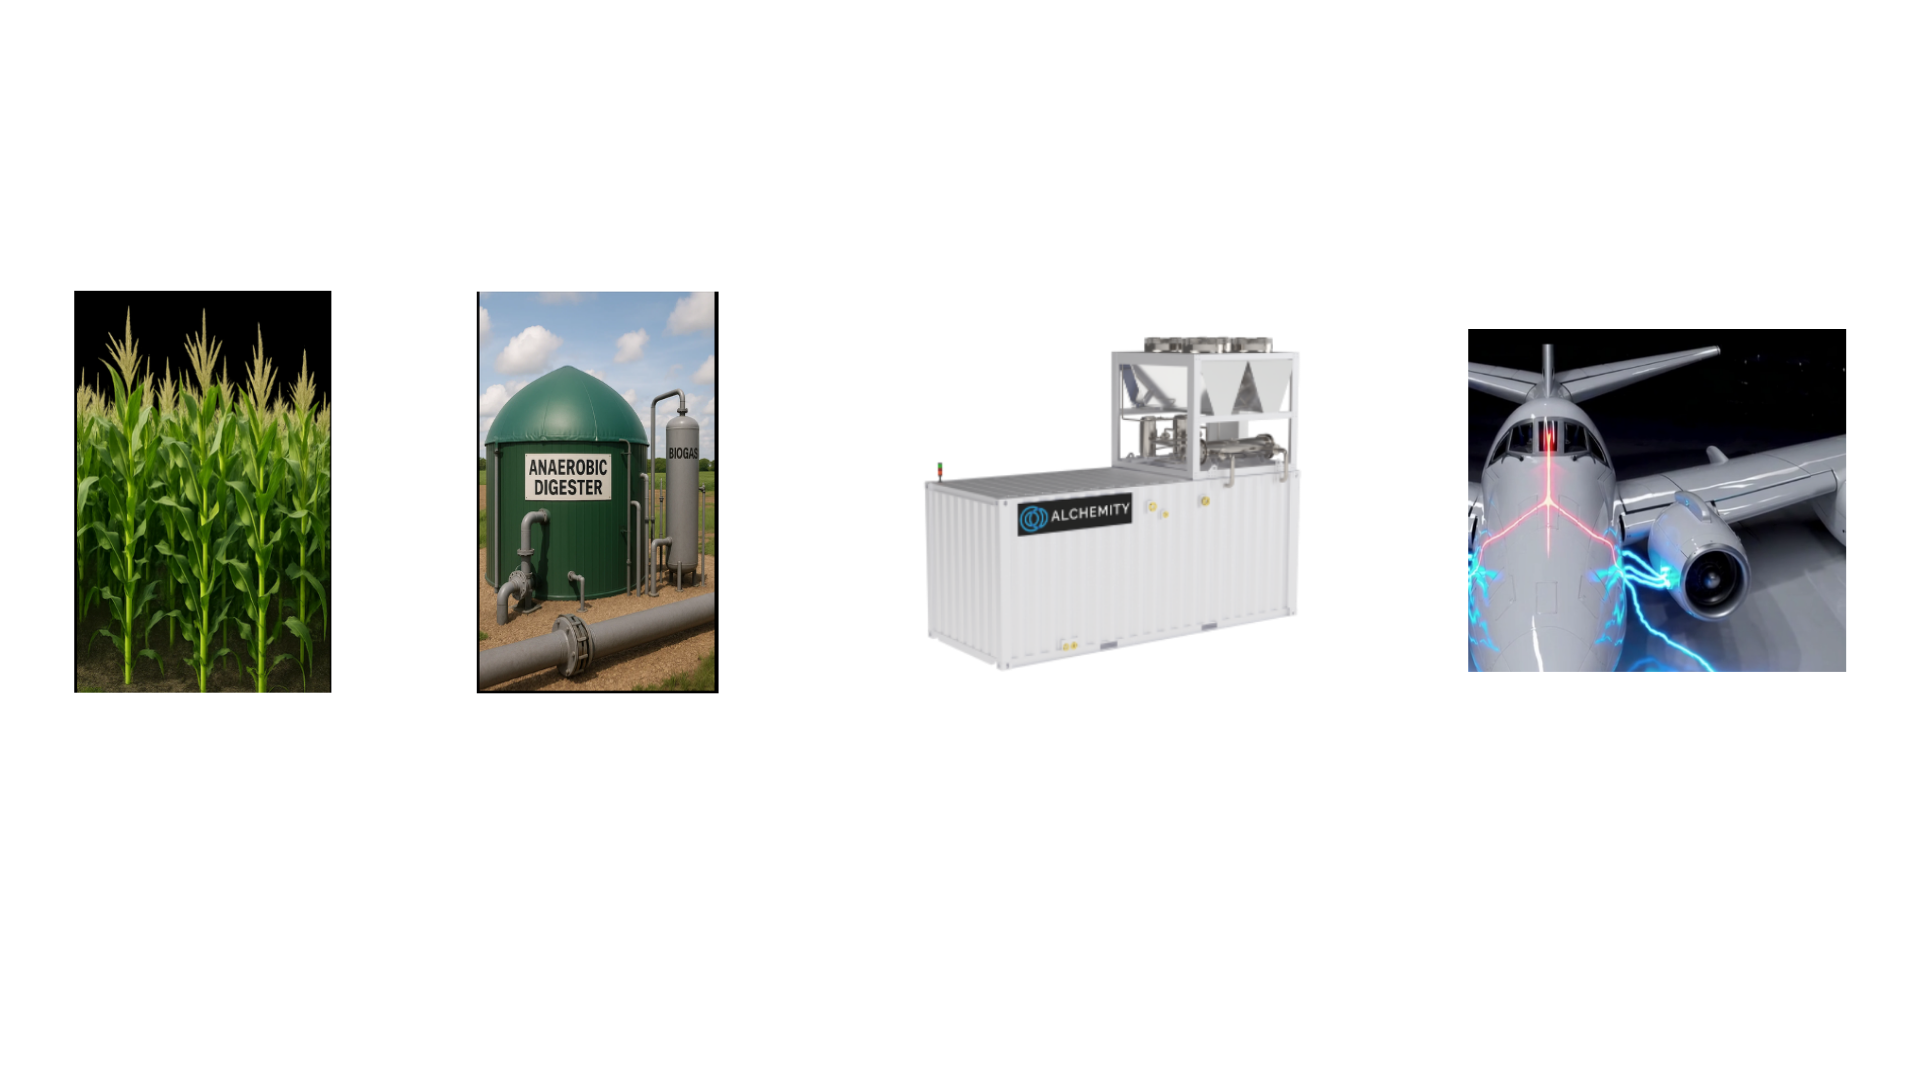
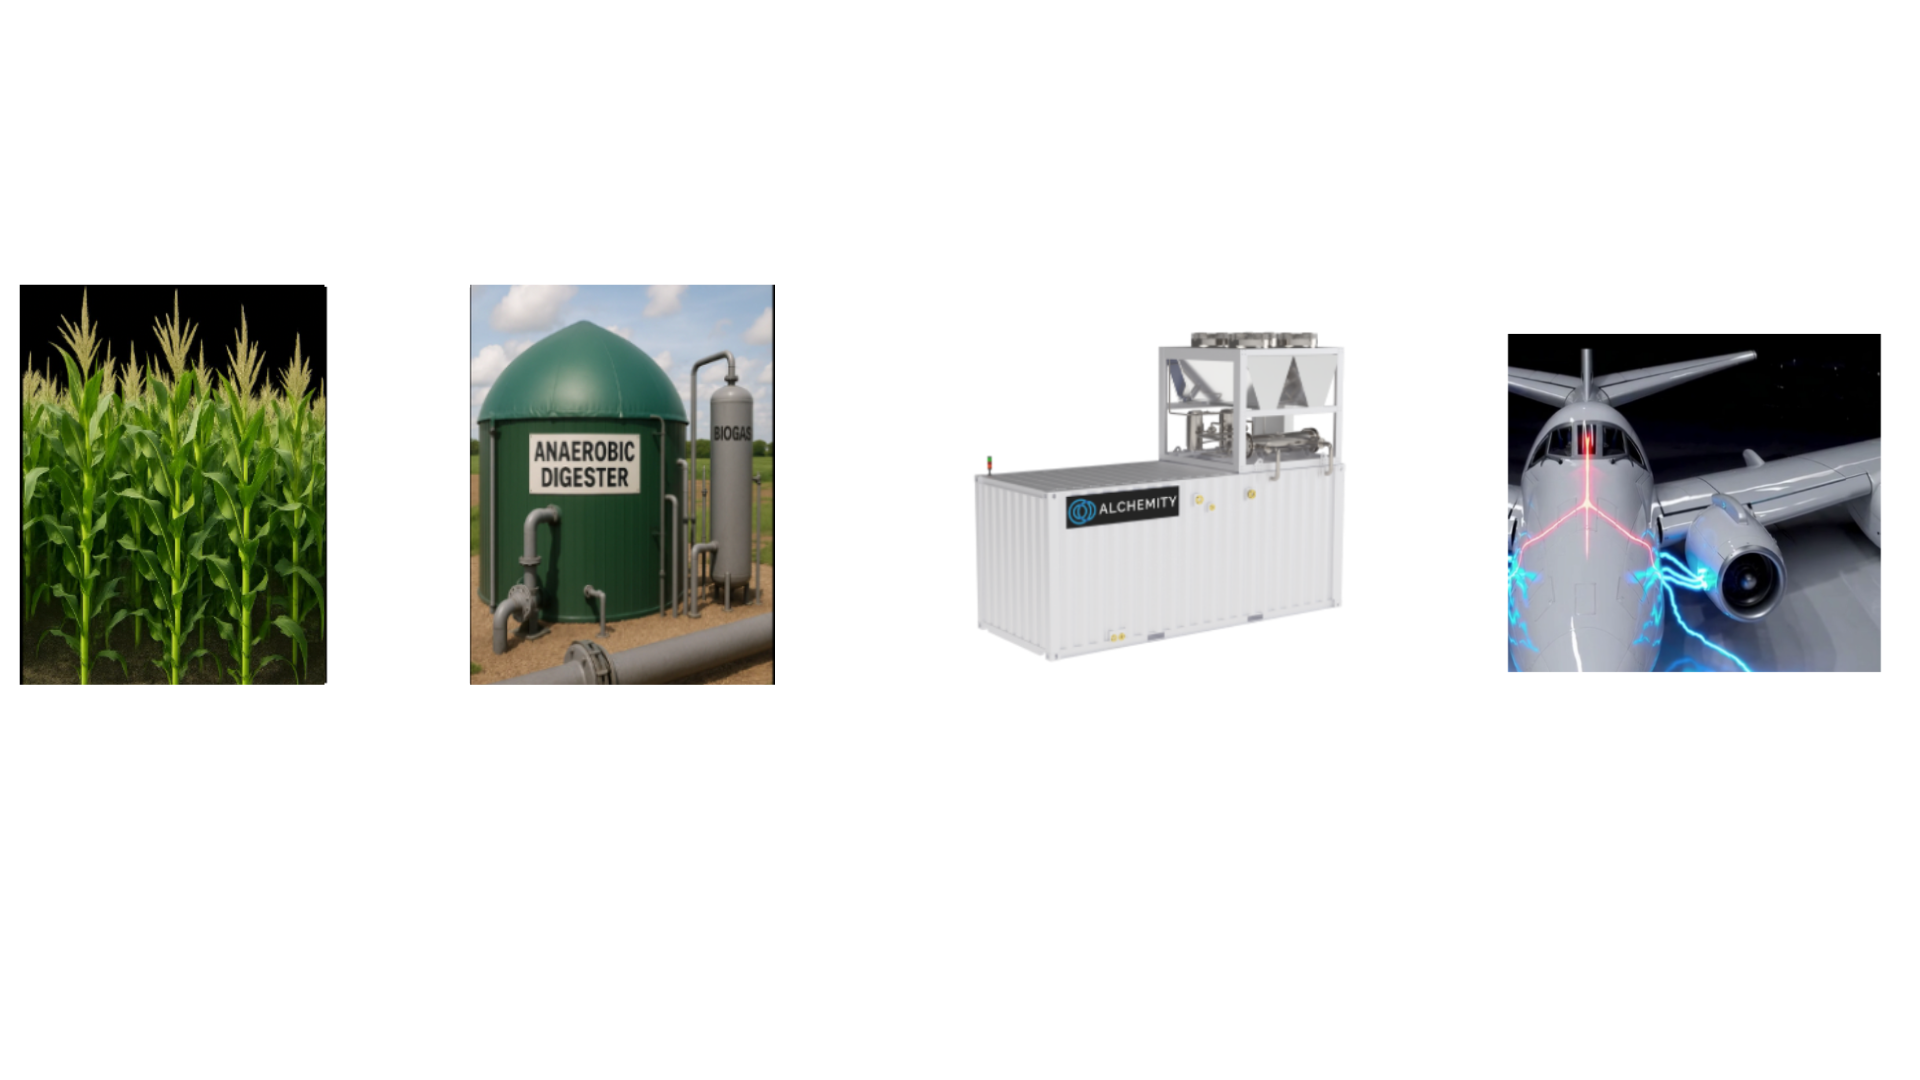
to review

diff --git a/src/pages/Careers.js b/src/pages/Careers.js
@@ -189,7 +189,6 @@ function Careers() {
             Why Work at Alchemity
           </h2>
           
-
           <div style={{
             display: 'flex',
             flexWrap: 'wrap',
@@ -197,10 +196,10 @@ function Careers() {
             gap: '2rem'
           }}>
             {[
-              { icon: <Wind color="#fff" size={32} />, title: 'Small team, real impact', desc: 'Your work directly shapes our technology and future.' },
-              { icon: <Globe color="#fff" size={32} />, title: 'Tech that matters', desc: 'Build solutions for real climate and energy challenges.' },
+              { icon: <Wind color="#fff" size={32} />, title: 'Flexible team, real impact', desc: 'Shape the future with a team that values outcomes over hours.' },
+              { icon: <Globe color="#fff" size={32} />, title: 'Tech that matters', desc: 'Build solutions for real climate challenges & decarbonize sectors.' },
               { icon: <Zap color="#fff" size={32} />, title: 'Backed by science', desc: 'Join a team with deep technical expertise and innovative vision.' },
-              { icon: <Clock color="#fff" size={32} />, title: 'Flexible culture', desc: 'Work with a collaborative team focused on outcomes, not hours.' }
+              // { icon: <Clock color="#fff" size={32} />, title: 'Flexible culture', desc: 'Work with a collaborative team focused on outcomes, not hours.' }
             ].map((item, index) => (
               <motion.div 
                 key={index} 

diff --git a/src/pages/About.js b/src/pages/About.js
@@ -30,7 +30,7 @@ const founders = [
     id: 2,
     name: 'Rodger McKain, Ph.D.',
     title: 'CEO',
-    blurb: '30 years as Fortune 500 Executive',
+    blurb: '30 years as Fortune 500\nExecutive',
     bio: [
       'Rodger brings expertise in building large businesses and succesful exit strategies. He successfully led the growth of multi-billion dollar S&P 500 companies.',
       'Previous Roles:',
@@ -47,7 +47,7 @@ const founders = [
     id: 3,
     name: 'Emir Dogdibegovic, Ph.D.',
     title: 'CTO and CCO',
-    blurb: '15 years of Scaleup and Deployment of Clean Energy Technologies',
+    blurb: '15 years of Scaleup & Deployment of Clean Energy Technologies',
     bio: [
       'Emir brings the technical and product scaleup know-how and strategic business expertise in customer acquisition, project development and deployment, and revenue generation.',
       'Previous Roles:',
@@ -64,7 +64,7 @@ const founders = [
     id: 1,
     name: 'Eric Wachsman, Ph.D.',
     title: 'Executive Chair',
-    blurb: '30 years of Energy Research and Product Development/Innovation',
+    blurb: '30 years of Energy Research & Product Development/Innovation',
     bio: [
       'Eric brings the innovation (developed IP licensed to Alchemity) and startup scaleup expertise through multiple ventures.',
       'Current Roles',

diff --git a/src/pages/Contact.js b/src/pages/Contact.js
@@ -72,7 +72,7 @@ function Contact() {
             lineHeight: '1.6'
           }}>
             Interested to invest? Have questions about pre-ordering our 
-            system or a general inquiry about our technology, products or interested in learning more? 
+            system or a general inquiry? 
             Fill out the form below.
           </p>
           

diff --git a/src/components/VideoSection.module.css b/src/components/VideoSection.module.css
@@ -136,7 +136,7 @@
 .keyPhrase {
   display: inline-block;
   margin: 0;
-  font-size: 1.8rem;
+  font-size: 1.6rem;
   font-weight: 500;
   color: white;
   position: relative;
